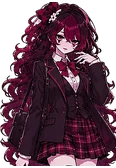
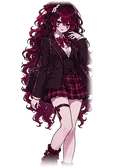
Two new HD outfits (plaid bunny pajamas, striped sweater) that share topics with the old pajamas/sweater; cut-off edges of the older outfits now fade out softly
Claude-Session: https://claude.ai/code/session_01WGxcBkyYwxg5pKWxF7e3SB

diff --git a/index.html b/index.html
@@ -445,7 +445,7 @@ nav button svg{display:none}
           <div class="mirTag">WARDROBE</div>
           <div class="mirIn">
             <div class="mirShadow"></div>
-            <img id="look0" class="look on" alt="Cerise, full body" src="img/outfits/jester.webp?v=20261127225953">
+            <img id="look0" class="look on" alt="Cerise, full body" src="img/outfits/jester.webp?v=20261127233734">
             <img id="look1" class="look" alt="">
             <div class="mirFlash" id="mirFlash"></div>
           </div>
@@ -555,7 +555,7 @@ nav button svg{display:none}
       </div>
       <div class="group"><h3>What she remembers</h3><div id="memList"></div></div>
       <button class="btn ghost" id="s-clear" type="button">Clear chat history</button>
-      <p style="color:var(--mute);font-size:12px;text-align:center;margin-top:18px">Cerise build 20261127225953 · settings save automatically</p>
+      <p style="color:var(--mute);font-size:12px;text-align:center;margin-top:18px">Cerise build 20261127233734 · settings save automatically</p>
     </div></section>
   </main>
   <nav>
@@ -577,15 +577,17 @@ const VAR = { neutral:['F01'], cold:['F26','F19'], sad:['F22','F05'], bored:['F1
   pout:['F08','F11'], flustered:['F08','F29'], shy:['F29','F11'], love:['F17','F25'], excited:['F24'], cry:['F18'], teary:['F05'], sleepy:['F28'], sleeping:['F09'],
   blank:['F30'], dark:['F20','F23'], sick:['F27'] };
 const MOODS = Object.keys(VAR);
-const VER = '20261127225953';
+const VER = '20261127233734';
 // her wardrobe (Her tab): she changes outfit to fit what you talk about
 const OUTFITS = [
   { id: 'jester', name: 'The Crimson Jester', short: 'Jester', sub: 'Her signature',
     when: 'her default look: everyday chat, jokes, magic, circus, theater, when nothing else fits', kw: /jester|circus|cirque|clown|harlequin|arlequin|th[ée][âa]tre|theat|magic|magie|سيرك|مهرج/i },
   { id: 'doctor', name: 'Doctor', short: 'Doctor', sub: "Doctor's orders", when: 'hospital, doctor, being sick, medicine, injuries, pain, health, clinic, appointments, first aid, biology',
     kw: /hospital|h[ôo]pital|doctor|docteur|m[ée]decin|nurse|infirmi|\bsick\b|malade|\bill\b|fever|fi[èe]vre|medicine|m[ée]dicament|clinic|clinique|injur|bless[ée]|\bhurts?\b|\bpain\b|douleur|health|sant[ée]|pharmac|dentist|dentiste|مستشفى|طبيب|دكتور|مريض|دواء|صيدلية/i },
-  { id: 'pajamas', name: 'Bunny Pajamas', short: 'Pajamas', sub: 'Do not disturb', when: 'sleep, bed, being tired, good night, naps, late at night, lazy days, waking up',
+  { id: 'pajamas', group: 'sleep', name: 'Bunny Pajamas', short: 'Pajamas', sub: 'Do not disturb', when: 'sleep, bed, being tired, good night, naps, late at night, lazy days, waking up',
     kw: /\bsleep|dormir|sommeil|\bbed\b|\blit\b|tired|fatigu|good ?night|bonne nuit|\bnap\b|sieste|insomnia|pajama|pyjama|نوم|نعسان|تصبح على خير|سرير|تعبان/i },
+  { id: 'plaidpj', group: 'sleep', name: 'Plaid Bunny Pajamas', short: 'Plaid PJs', sub: 'Cozy night in', when: 'also for sleep, bed and tired moments; especially cozy nights in, cold nights at home, sleepovers, movie night in bed',
+    kw: /sleepover|soir[ée]e pyjama|cozy night|movie night|night in|\bsleep|dormir|sommeil|\bbed\b|\blit\b|tired|fatigu|good ?night|bonne nuit|\bnap\b|sieste|pajama|pyjama|نوم|نعسان|تصبح على خير|سرير|تعبان/i },
   { id: 'school', name: 'School Uniform', short: 'School', sub: 'Class is in session', when: 'school, homework, studying, exams, classes, teachers, university, math, physics, learning',
     kw: /school|[ée]cole|homework|devoirs?|\bexams?\b|examen|\bstudy|[ée]tudi|\bclass\b|classe|\bcours\b|lesson|le[çc]on|teacher|\bprof\b|universit|college|coll[èe]ge|lyc[ée]e|\bmath|physics|chemistry|مدرسة|درس|امتحان|جامعة|واجب/i },
   { id: 'winter', name: 'Winter Fluff', short: 'Winter', sub: 'Cold-weather fluff', when: 'winter, snow, cold or freezing weather, Christmas, skiing, mountains',
@@ -600,8 +602,10 @@ const OUTFITS = [
     kw: /\bclean|nettoy|m[ée]nage|\bcook|cuisin|recipe|recette|chores|laundry|lessive|dishes|vaisselle|tea time|طبخ|تنظيف|وصفة/i },
   { id: 'street', name: 'Streetwear', short: 'Street', sub: 'Too cool to care', when: 'music, concerts, the gym, sports, gaming, skating, the city, coding, tech, GitHub, hacking',
     kw: /\bgym\b|workout|\bsports?\b|football|basket|concert|music|musique|\bsong|chanson|gaming|video ?game|jeu vid|\bskate|\brap\b|\brock\b|github|\bcode\b|coding|programm|hack|رياضة|موسيقى|العاب/i },
-  { id: 'casual', name: 'Cozy Sweater', short: 'Casual', sub: 'Casual day out', when: 'hanging out, shopping, the mall, coffee, friends, weekends, movies, walks, work and errands, chilling',
+  { id: 'casual', group: 'casual', name: 'Cozy Sweater', short: 'Casual', sub: 'Casual day out', when: 'hanging out, shopping, the mall, coffee, friends, weekends, movies, walks, work and errands, chilling',
     kw: /shopping|\bmall\b|coffee|\bcaf[ée]\b|hang ?out|friends|\bamis\b|weekend|week-end|\bmovies?\b|\bfilm\b|cin[ée]ma|\bwalk\b|promenade|\bchill|beach|plage|تسوق|قهوة|اصحاب|سينما/i },
+  { id: 'sweater', group: 'casual', name: 'Striped Sweater', short: 'Sweater', sub: 'Comfy and cute', when: 'also for casual moments; especially comfy days, rainy days, staying home, relaxing, reading, just chatting',
+    kw: /\brain|pluie|cozy|cosy|\bcomfy|relax|reading|\blire\b|chez moi|at home|lazy|مطر|راحة|كسل/i },
 ];
 OUTFITS.forEach((o, i) => { o.n = i + 1; o.src = 'img/outfits/' + o.id + '.webp?v=' + VER; o.thumb = 'img/outfits/t_' + o.id + '.webp?v=' + VER; });
 const OUTFIT_IDS = OUTFITS.map(o => o.id);
@@ -1853,7 +1857,9 @@ function outfitFromText(t) { for (const o of OUTFITS) if (o.kw.test(t || '')) re
 // pick an outfit for this turn: her own choice first, then keywords from what you said
 function chooseOutfit(brainPick, userText) {
   if (S.outfitAuto === false) return;
-  const pick = OUTFIT_IDS.includes(brainPick) ? brainPick : brainPick === 'keep' ? null : outfitFromText(userText);
+  let pick = OUTFIT_IDS.includes(brainPick) ? brainPick : brainPick === 'keep' ? null : outfitFromText(userText);
+  if (pick) { const g = outfitOf(pick).group; if (g) { const same = OUTFITS.filter(o => o.group === g);
+    pick = same.some(o => o.id === S.outfit) ? S.outfit : brainPick === pick ? pick : same[Math.floor(Math.random() * same.length)].id; } }
   if (pick && pick !== S.outfit) setOutfit(pick, 'chat');
 }
 function openHer() { const f = shown === 'neutral' || !IMG[shown] ? 'neutral' : shown; $('#cFaceImg').src = IMG[f]; $('#stMood').textContent = mood; $('#stMsg').textContent = S.history.length; paintLook(outfitOf(S.outfit), false); }
